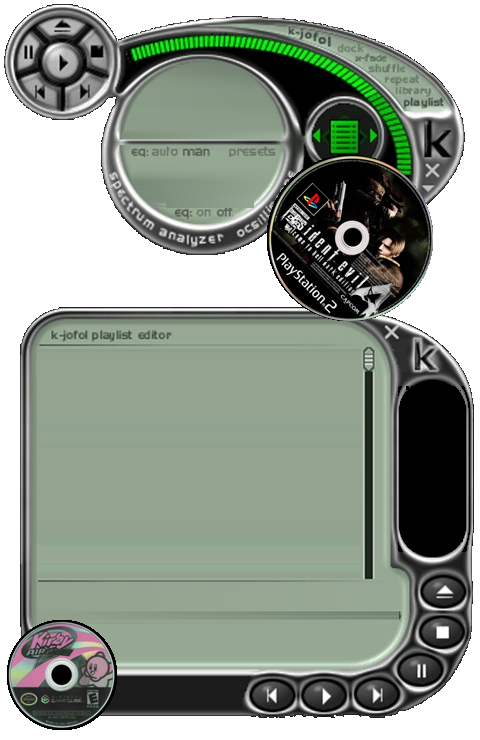
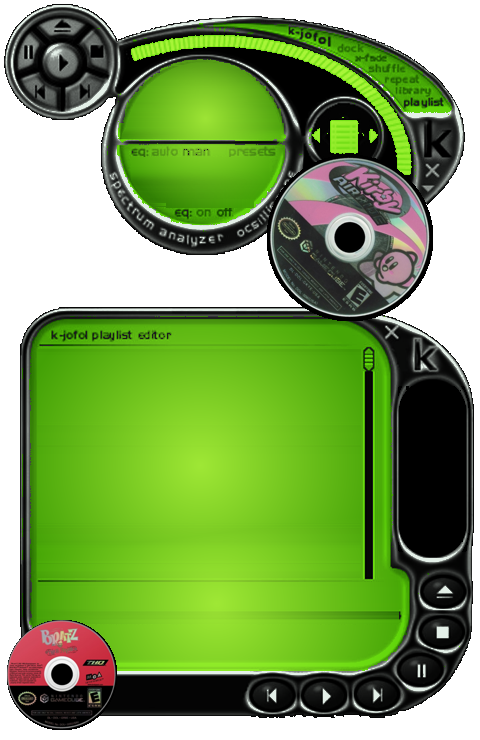
Player: стиль Xbox-плеера — тёмный глянцевый металл и светящиеся лаймовые экраны

diff --git a/task_quest_player.py b/task_quest_player.py
@@ -33,16 +33,18 @@ DISC_FRAMES, DISC_BIG, DISC_SMALL = 24, 168, 112  # блоки с дисками
 DRIVE_TOP = (350, 238)     # верхний привод — текущий диск
 DRIVE_BOTTOM = (62, 675)   # нижний привод — следующий диск
 
-LCD_INK = "#050c05"        # почти чёрный зелёный — максимальный контраст на LCD
-LCD_SOFT = "#0f1f10"
-LIST_INK = "#071007"       # текст плейлиста
-LIST_SEL_INK = "#e6f6dc"   # выделенная строка — светлый текст на тёмной полосе
-LIST_SEL_BG = "#34443a"
-LIST_RUN_INK = "#006b14"
-EQ_BAR = "#3e4f42"
-ARC_DIM = "#1d3320"        # погасшие деления дуги громкости
-GREEN = "#55ff66"
-GREEN_DIM = "#2fae3c"
+# стиль Xbox-плеера: тёмный глянцевый металл и светящиеся лаймовые экраны (assets/player_xbox.png)
+LCD_INK = "#031000"        # почти чёрный зелёный — максимальный контраст на лаймовом экране
+LCD_SOFT = "#0b2c00"
+LIST_INK = "#041200"       # текст плейлиста
+LIST_SEL_INK = "#dcff9e"   # выделенная строка — светлый лайм на тёмно-зелёной полосе
+LIST_SEL_BG = "#123d00"
+LIST_RUN_INK = "#003d00"
+EQ_BAR = "#0d3a00"
+ARC_DIM = "#0f2a05"        # погасшие деления дуги громкости
+GREEN = "#a6ff3c"
+GREEN_DIM = "#5bb81e"
+BEZEL = ("#1c201e", "#4a514c", "#9aa39d", "#f2f6f3", "#8b938e", "#3a3f3c", "#0e100f")
 
 # места для текста (старый текст стёрт с фона заранее — assets/player_clean.png)
 LCD_TIME = (150, 66, 262, 88)
@@ -117,7 +119,7 @@ class AppPlayer(tq.App2):
         self.scratch_until = -1
         self.eq = [0.2] * 14
 
-        self.bg = tk.PhotoImage(file=os.path.join(ASSETS, "player_shape.png"))
+        self.bg = tk.PhotoImage(file=os.path.join(ASSETS, "player_xbox.png"))
         # фон режем на плитки 160×160 (размер как у дисков)
         self.bg_tiles = []
         for ty in range(0, H, TILE):
@@ -399,7 +401,7 @@ class AppPlayer(tq.App2):
         """Хромированный ободок привода вокруг диска — в стиле корпуса плеера."""
         self.cv.create_oval(cx - r - 9, cy - r - 9, cx + r + 9, cy + r + 9, fill="#0b0c0b", outline="",
                             tags=self.layer)
-        for k, col in enumerate(("#2c302b", "#6f776d", "#b9c0b6", "#eef2ec", "#c3cac0", "#7e867c", "#3a4039")):
+        for k, col in enumerate(BEZEL):
             rr = r + 8 - k
             self.cv.create_oval(cx - rr, cy - rr, cx + rr, cy + rr, outline=col, width=1.4, tags=self.layer)
         self.cv.create_oval(cx - r - 1, cy - r - 1, cx + r + 1, cy + r + 1, fill="#050605", outline="",

diff --git a/README.md b/README.md
@@ -65,7 +65,7 @@
 
 ### ◉ Player
 
-Плеер K-Jofol один в один, а в его круглых приводах вращаются диски Kirby Air Ride, Bratz Rock Angelz и Resident Evil 4. Окно принимает форму плеера: без рамки и с прозрачным фоном, перетаскивается за корпус, закрывается крестиком ✕ на плеере.
+Плеер K-Jofol в стиле Xbox-плеера: тёмный глянцевый металл с белыми бликами и светящиеся кислотно-зелёные экраны. В круглых приводах вращаются диски Kirby Air Ride, Bratz Rock Angelz и Resident Evil 4. Окно принимает форму плеера: без рамки и с прозрачным фоном, перетаскивается за корпус, закрывается крестиком ✕ на плеере.
 
 - **LCD**: время квеста (во время работы — время сессии), статус play/pause, название квеста, уровень и время за день
 - **Эквалайзер** танцует, пока идёт таймер (кнопка «эффекты» или зелёная кнопка в центре выключают)
